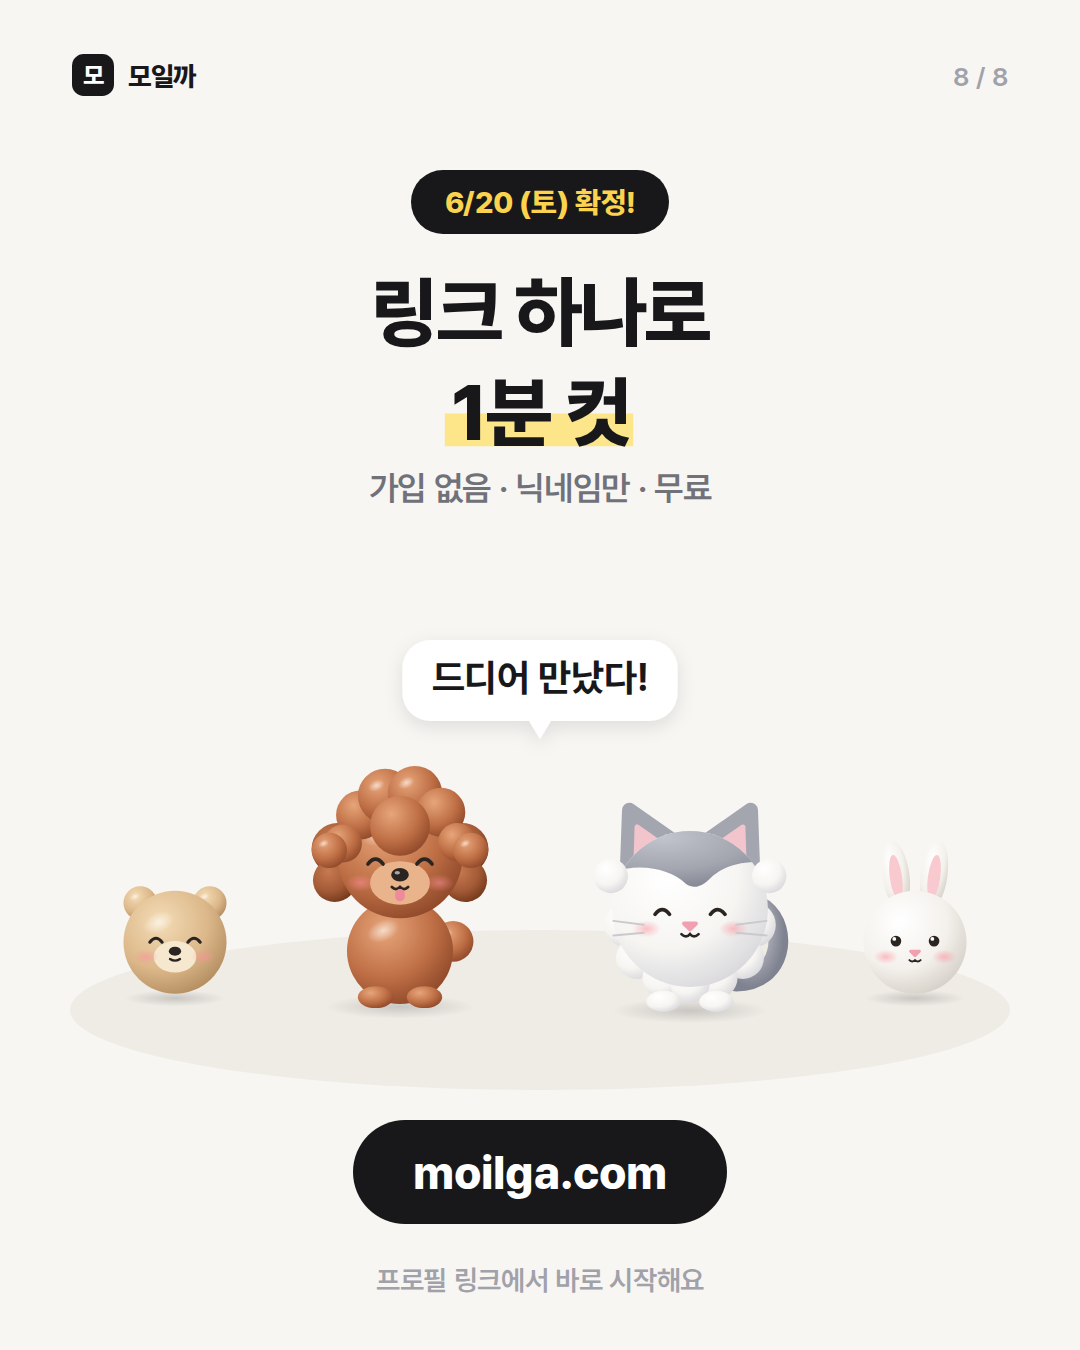
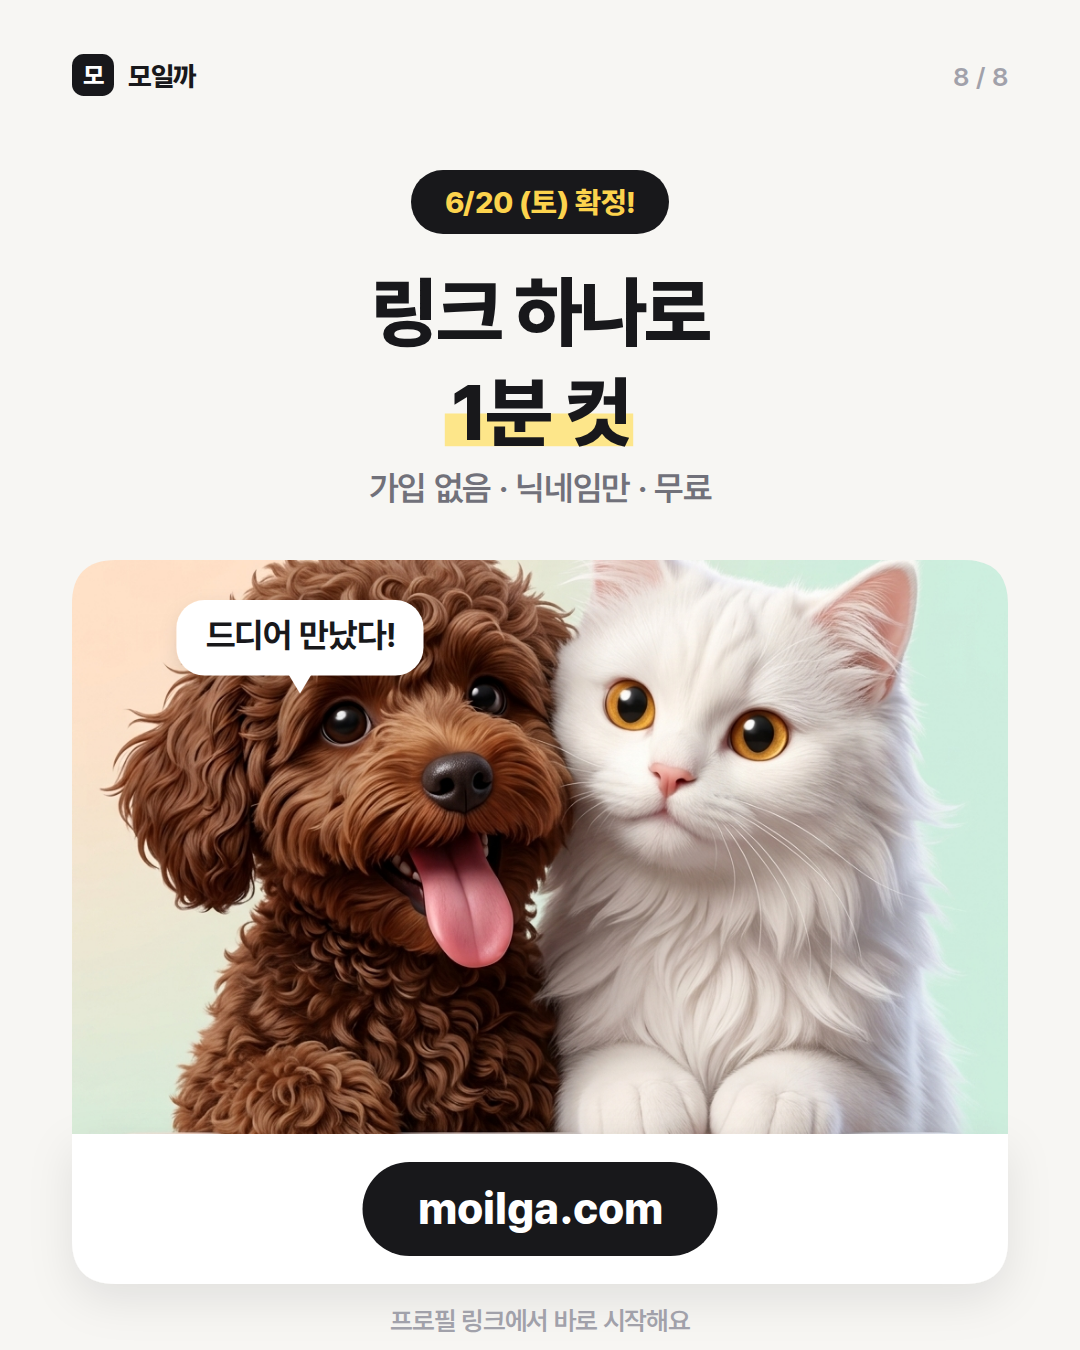
컷툰 EP.1 — 주인공을 초코·밀크 이미지로 교체
직접 그린 마스코트 대신 초코·밀크 이미지(choco-milk.png)를 쓴다.
둘이 카드 위에 앞발을 올린 구도를 살려 사진 패널 + 모일까 카드로 받치고,
대화 컷에는 얼굴 원형 크롭을 넣는다. 콩이·두부 아바타는 글자 아바타로.

Claude-Session: https://claude.ai/code/session_01CKkU2Ec6NKqxHL39zMMfNL

diff --git a/scripts/promo/cuttoon/cuttoon.html b/scripts/promo/cuttoon/cuttoon.html
@@ -13,13 +13,12 @@
   svg.slide { display: block; width: 1080px; height: 1350px; flex: none; }
   svg text { font-family: Pretendard, sans-serif; }
 </style>
-<script src="chars.js"></script>
 </head>
 <body>
 <script>
 // =====================================================================
 // 모일까 컷툰 EP.1 — 8장 (1080×1350). 렌더: node render.mjs
-// 캐릭터: chars.js 의 젤리 초코·밀크. 레이아웃: 가운데 정렬 헤드라인 + 형광펜 강조 + 실제 앱 UI 카드.
+// 주인공: choco-milk.png (초코·밀크가 카드 위에 앞발 올린 이미지) — 패널·얼굴 크롭으로 배치. 레이아웃: 가운데 정렬 헤드라인 + 형광펜 강조 + 실제 앱 UI 카드.
 // 앱 UI 안의 1위/확정 표시는 CLAUDE.md 토큰 그대로(amber 단색, 🏆 없음).
 // =====================================================================
 const C = {
@@ -67,22 +66,40 @@ function pill(y, str) {
   return `<rect x="${W / 2 - w / 2}" y="${y}" width="${w}" height="64" rx="32" fill="${C.ink}"/>` + T(W / 2, y + 43, str, { size: 30, weight: 800, fill: C.a300, anchor: 'middle' });
 }
 function chrome(n) {
-  return `<rect width="${W}" height="${H}" fill="${C.bg}"/>` + DEFS + mascotDefs() + mark(M, 54, 42) + T(M + 56, 86, '모일까', { size: 27, weight: 800 }) +
+  return `<rect width="${W}" height="${H}" fill="${C.bg}"/>` + DEFS + mark(M, 54, 42) + T(M + 56, 86, '모일까', { size: 27, weight: 800 }) +
     T(W - M, 86, `${n} / 8`, { size: 26, weight: 600, fill: C.z400, anchor: 'end', ls: 0.5 });
 }
 const card = (x, y, w, h, inner = '') => `<rect x="${x}" y="${y}" width="${w}" height="${h}" rx="44" fill="${C.white}" filter="url(#sh)"/>` + inner;
 
-// ---------- 젤리 아바타 / 채팅 ----------
-const WHO = { choco: ['choco', '초코'], milk: ['milk', '밀크'], kong: ['kong', '콩이'], dubu: ['dubu', '두부'] };
-function avatar(who, cx, cy, r, face = 'dot') {
-  const id = 'av' + Math.random().toString(36).slice(2, 8);
-  return `<clipPath id="${id}"><circle cx="${cx}" cy="${cy}" r="${r}"/></clipPath><circle cx="${cx}" cy="${cy}" r="${r}" fill="${C.z100}"/>` +
-    `<g clip-path="url(#${id})">${place(cx, cy - mascotFaceY[who] * (r / 100) + r * 0.12, r / 100, mascot(WHO[who][0], { face }))}</g>`;
+// ---------- 사진 (choco-milk.png 1024²: 둘이 카드 위에 앞발 올린 구도) ----------
+const IMG = 'choco-milk.png';
+let PID = 0;
+// 둘 다 — 위만 둥근 패널. 아래 가장자리는 counter() 카드가 받친다 (앞발이 카드 위에 올라간 느낌)
+function photoPanel(x, y, w, cropTop = 140, cropBot = 836) {
+  const id = 'pp' + (PID++), k = w / 1024, h = (cropBot - cropTop) * k;
+  return { h, svg: `<clipPath id="${id}"><path d="M${x} ${y + h} V${y + 44} Q${x} ${y} ${x + 44} ${y} H${x + w - 44} Q${x + w} ${y} ${x + w} ${y + 44} V${y + h}Z"/></clipPath>` +
+    `<g clip-path="url(#${id})"><image href="${IMG}" x="${x}" y="${y - cropTop * k}" width="${w}" height="${w}" preserveAspectRatio="none"/></g>` };
+}
+const counter = (x, y, w, h, inner = '') =>
+  `<path d="M${x} ${y} H${x + w} V${y + h - 44} Q${x + w} ${y + h} ${x + w - 44} ${y + h} H${x + 44} Q${x} ${y + h} ${x} ${y + h - 44}Z" fill="${C.white}" filter="url(#sh)"/>` + inner;
+// 한 마리 얼굴 크롭 (원본 좌표의 중심·반지름)
+const FACE = { choco: [318, 410, 235], milk: [700, 380, 215] };
+function faceImg(who, cx, cy, r) {
+  const id = 'pf' + (PID++), [fx, fy, fr] = FACE[who], k = r / fr;
+  return `<clipPath id="${id}"><circle cx="${cx}" cy="${cy}" r="${r}"/></clipPath><g clip-path="url(#${id})"><image href="${IMG}" x="${cx - fx * k}" y="${cy - fy * k}" width="${1024 * k}" height="${1024 * k}"/></g>`;
+}
+const photoFace = (who, cx, cy, r) => `<circle cx="${cx}" cy="${cy}" r="${r + 9}" fill="${C.white}" filter="url(#sh)"/>` + faceImg(who, cx, cy, r);
+const WHO = { choco: '초코', milk: '밀크', kong: '콩이', dubu: '두부' };
+const AV = { kong: ['#efe6d8', '#8a6a45', '콩'], dubu: ['#ebe8e3', '#6b645b', '두'] };
+function avatar(who, cx, cy, r) {
+  if (FACE[who]) return faceImg(who, cx, cy, r);
+  const [bg, fg, ch] = AV[who];
+  return `<circle cx="${cx}" cy="${cy}" r="${r}" fill="${bg}"/>` + T(cx, cy + r * 0.36, ch, { size: r, weight: 800, fill: fg, anchor: 'middle', ls: 0 });
 }
 function msgL(x, y, who, text, { size = 32, name = true, fill = C.z100 } = {}) {
   const r = 30, bx = x + r * 2 + 16;
   let s = avatar(who, x + r, y + r + (name ? 4 : 0), r), ty = y;
-  if (name) { s += T(bx + 2, y + 22, WHO[who][1], { size: 24, weight: 600, fill: C.z400 }); ty = y + 32; }
+  if (name) { s += T(bx + 2, y + 22, WHO[who], { size: 24, weight: 600, fill: C.z400 }); ty = y + 32; }
   const w = tw(text, size, 600) + 46, h = size + 34;
   s += `<rect x="${bx}" y="${ty}" width="${w}" height="${h}" rx="${h / 2}" fill="${fill}"/>` + T(bx + 23, ty + h / 2 + size * 0.35, text, { size, weight: 600 });
   return { svg: s, h: ty - y + h };
@@ -105,12 +122,8 @@ S.push(() => {
   s += pill(170, '모일까 컷툰 EP.1');
   s += headline(['약속 잡기, 왜 맨날', '[흐지부지]될까?'], 340);
   s += sub(500, '단톡방에서 날짜 맞추다 지친 우리 얘기');
-  // 바닥 무대
-  s += `<ellipse cx="${W / 2}" cy="1170" rx="480" ry="84" fill="#efece6"/>`;
-  s += place(318, 1160, 0.966, mascot('choco', { face: 'dot', tongue: true }));
-  s += place(775, 1170, 0.898, mascot('milk', { face: 'side' }));
-  s += say(300, 650, ['언제 볼래?'], 'dr') + say(800, 680, ['다음에 보자~'], 'dl');
-  s += T(W / 2, 1290, '옆으로 넘겨 보기 →', { size: 28, weight: 600, fill: C.z400, anchor: 'middle' });
+  const P = photoPanel(M, 560, W - M * 2, 150, 824);
+  s += P.svg + counter(M, 560 + P.h, W - M * 2, 96, T(W / 2, 560 + P.h + 60, '초코랑 밀크의 약속 잡기  →', { size: 30, weight: 700, fill: C.z500, anchor: 'middle' }));
   return s;
 });
 
@@ -127,8 +140,8 @@ S.push(() => {
   in_ += sysPill(x + w / 2, yy, '3주 후');
   in_ += T(x + w / 2, yy + 140, '· · ·', { size: 44, weight: 800, fill: C.z300, anchor: 'middle', ls: 6 });
   s += card(x, y, w, h, in_);
-  s += place(800, 1268, 0.72, mascot('choco', { face: 'flat' }));
-  s += say(560, 1110, ['…?'], 'dr');
+  s += photoFace('choco', 845, 1160, 112);
+  s += say(600, 1110, ['…?'], 'dr');
   return s;
 });
 
@@ -141,9 +154,8 @@ S.push(() => {
   [['kong', '나 15일만 돼', 0], ['dubu', '난 그날 안 됨 ㅠ', 300], ['kong', '주말은??', 40], ['dubu', '다음 주는 어때', 260]].forEach(([who, t, dx]) => { const r = msgL(x + 50 + dx, yy, who, t, { name: false }); in_ += r.svg; yy += r.h + 26; });
   in_ += T(x + w - 50, y + h - 50, '읽음 4 · 답장 0', { size: 26, weight: 700, fill: C.z400, anchor: 'end' });
   s += card(x, y, w, h, in_);
-  s += place(300, 1268, 0.72, mascot('choco', { face: 'squint' }));
-  s += place(660, 1268, 0.72, mascot('milk', { face: 'side' }));
-  s += say(880, 1040, ['또 시작이네'], 'dl');
+  s += photoFace('milk', 845, 1160, 112);
+  s += say(560, 1110, ['…또 시작이네'], 'dr');
   return s;
 });
 
@@ -153,12 +165,10 @@ S.push(() => {
   s += pill(170, '그래서 찾은 방법');
   s += headline(['이럴 땐', '[모일까]'], 340);
   s += sub(500, '친구들이랑 모일 날, 가입 없이 링크 하나로');
-  const mw = 120, gap = 26, tx = tw('모일까', 96, 800), tot = mw + gap + tx, x0 = W / 2 - tot / 2;
-  s += card(150, 590, 780, 260, mark(x0, 660, mw) + T(x0 + mw + gap, 660 + mw * 0.79, '모일까', { size: 96, weight: 800, ls: -2 }));
-  s += `<ellipse cx="${W / 2}" cy="1180" rx="420" ry="70" fill="#efece6"/>`;
-  s += place(360, 1172, 0.86, mascot('choco', { face: 'happy', tongue: true }));
-  s += place(740, 1178, 0.84, mascot('milk', { face: 'wow' }));
-  s += say(170, 880, ['이거다!'], 'dr');
+  const P = photoPanel(M, 560, W - M * 2, 196, 824);
+  const cy = 560 + P.h, mw = 84, gap = 20, tx = tw('모일까', 66, 800), tot = mw + gap + tx, x0 = W / 2 - tot / 2;
+  s += P.svg + counter(M, cy, W - M * 2, 150, mark(x0, cy + 33, mw) + T(x0 + mw + gap, cy + 33 + mw * 0.8, '모일까', { size: 66, weight: 800, ls: -1.5 }));
+  s += say(250, 600, ['이거다!'], 'down');
   return s;
 });
 
@@ -180,7 +190,7 @@ S.push(() => {
     in_ += T(cx, cy, String(d), { size: 27, weight: sel.has(d) ? 800 : 600, fill: sel.has(d) ? C.white : C.z700, anchor: 'middle', ls: 0 });
   }
   s += card(x, y, w, h, in_);
-  s += place(830, 1270, 0.544, mascot('choco', { face: 'happy', tongue: true }));
+  s += photoFace('choco', 850, 1208, 100);
   s += say(520, 1150, ['닉네임만 쓰면 끝!'], 'dr');
   return s;
 });
@@ -202,7 +212,7 @@ S.push(() => {
   let r = msgL(x + 44, yy, 'kong', '오 편하다'); in_ += r.svg; yy += r.h + 22;
   r = msgL(x + 44, yy, 'dubu', '체크 완료!'); in_ += r.svg;
   s += card(x, y, w, h, in_);
-  s += place(830, 1270, 0.53, mascot('milk', { face: 'side' }));
+  s += photoFace('milk', 850, 1208, 100);
   s += say(520, 1150, ['(몰래) 나도 체크함'], 'dr', { size: 30 });
   return s;
 });
@@ -215,7 +225,7 @@ S.push(() => {
   const x = 150, y = 450, w = 780, h = 640;
   const x0 = x + 50, x1 = x + w - 50;
   let in_ = T(x0, y + 80, '초코네 번개', { size: 38, weight: 800 }) + T(x1, y + 80, '응답 4/4', { size: 26, weight: 700, fill: C.z400, anchor: 'end' });
-  ['choco', 'milk', 'kong', 'dubu'].forEach((who, i) => { in_ += avatar(who, x0 + 40 + i * 92, y + 148, 38, who === 'milk' ? 'side' : 'happy'); });
+  ['choco', 'milk', 'kong', 'dubu'].forEach((who, i) => { in_ += avatar(who, x0 + 40 + i * 92, y + 148, 38); });
   [['6/20 (토)', 4, 1], ['6/27 (토)', 2, 2], ['6/21 (일)', 1, 3]].forEach(([d, n, rank], i) => {
     const ry = y + 236 + i * 128, first = rank === 1;
     in_ += `<circle cx="${x0 + 26}" cy="${ry + 22}" r="26" fill="${first ? C.a500 : C.z100}"/>`;
@@ -226,7 +236,7 @@ S.push(() => {
     in_ += `<rect x="${x0}" y="${ry + 66}" width="${x1 - x0}" height="16" rx="8" fill="${C.z100}"/><rect x="${x0}" y="${ry + 66}" width="${(x1 - x0) * n / 4}" height="16" rx="8" fill="${first ? C.a300 : C.z300}"/>`;
   });
   s += card(x, y, w, h, in_);
-  s += place(250, 1270, 0.53, mascot('milk', { face: 'side' }));
+  s += photoFace('milk', 230, 1208, 100);
   s += say(560, 1150, ['…좋아. 그날 간다.'], 'dl', { size: 30 });
   return s;
 });
@@ -237,15 +247,11 @@ S.push(() => {
   s += pill(170, '6/20 (토) 확정!');
   s += headline(['링크 하나로', '[1분 컷]'], 340);
   s += sub(500, '가입 없음 · 닉네임만 · 무료');
-  s += `<ellipse cx="${W / 2}" cy="1010" rx="470" ry="80" fill="#efece6"/>`;
-  s += place(175, 996, 0.56, mascot('kong', { face: 'happy' }));
-  s += place(400, 1004, 0.68, mascot('choco', { face: 'happy', tongue: true, pose: 'cheer' }));
-  s += place(690, 1008, 0.66, mascot('milk', { face: 'happy', pose: 'cheer' }));
-  s += place(915, 996, 0.56, mascot('dubu', { face: 'wow' }));
-  s += say(W / 2, 640, ['드디어 만났다!'], 'down', { size: 38 });
-  const uw = tw('moilga.com', 46, 800) + 120;
-  s += `<rect x="${W / 2 - uw / 2}" y="1120" width="${uw}" height="104" rx="52" fill="${C.ink}"/>` + T(W / 2, 1189, 'moilga.com', { size: 46, weight: 800, fill: C.white, anchor: 'middle', ls: 0 });
-  s += T(W / 2, 1290, '프로필 링크에서 바로 시작해요', { size: 28, weight: 600, fill: C.z400, anchor: 'middle' });
+  const P = photoPanel(M, 560, W - M * 2, 196, 824);
+  const cy = 560 + P.h, uw = tw('moilga.com', 44, 800) + 110;
+  s += P.svg + counter(M, cy, W - M * 2, 150, `<rect x="${W / 2 - uw / 2}" y="${cy + 28}" width="${uw}" height="94" rx="47" fill="${C.ink}"/>` + T(W / 2, cy + 90, 'moilga.com', { size: 44, weight: 800, fill: C.white, anchor: 'middle', ls: 0 }));
+  s += say(300, 600, ['드디어 만났다!'], 'down', { size: 34 });
+  s += T(W / 2, cy + 196, '프로필 링크에서 바로 시작해요', { size: 26, weight: 600, fill: C.z400, anchor: 'middle' });
   return s;
 });
 

diff --git a/scripts/promo/cuttoon/README.md b/scripts/promo/cuttoon/README.md
@@ -12,9 +12,10 @@ node render.mjs 3 5      # 03.png, 05.png 만 다시 찍고 preview 갱신
 
 - 필요: Playwright + Chromium. 로컬에 없으면 전역 설치본(`npm root -g`)을 쓴다.
 - 폰트: `fonts/` 의 Pretendard woff2 (Medium/SemiBold/Bold/ExtraBold) — git 에 없음. `cp -r ../fonts .` (상위 `scripts/promo/render.mjs` 가 처음 실행될 때 npm 에서 받아 온다).
-- 원본: `cuttoon.html`(슬라이드·레이아웃·앱 UI 카드) + `chars.js`(마스코트 `mascot(kind, {face, tongue, pose, tilt})` — choco·milk·kong·dubu, 표정 dot/happy/side/squint/wow/sleepy/flat).
-- 아트 디렉션: 실제 초코(폼폼 토이푸들)·밀크(회색 모자 털뭉치 고양이)를 닮은 입체 봉제인형 마스코트 + 가운데 정렬 굵은 헤드라인 + 형광펜 강조 + 실제 앱 UI 카드.
-- 캐릭터 시트 미리보기: `dev/sheet.html`.
+- 원본: `cuttoon.html`(슬라이드·레이아웃·앱 UI 카드) + `choco-milk.png`(초코·밀크 AI 생성 이미지, 1024²).
+- 사진 배치: `photoPanel()` 위가 둥근 사진 패널 + `counter()` 카드 — 둘이 카드 위에 앞발을 올린 구도. `photoFace()` 는 한 마리 얼굴 원형 크롭(`FACE` 좌표).
+- 아트 디렉션: 가운데 정렬 굵은 헤드라인 + 형광펜 강조 + 실제 앱 UI 카드 + 초코·밀크 사진.
+- 게시할 때 인스타 'AI 정보' 라벨을 켠다 (주인공 이미지가 AI 생성).
 - 브라우저에서 `cuttoon.html?s=4` 로 한 장만 열어 볼 수 있다.
 
 ## 브랜드 규칙 (CLAUDE.md §1, §7)
